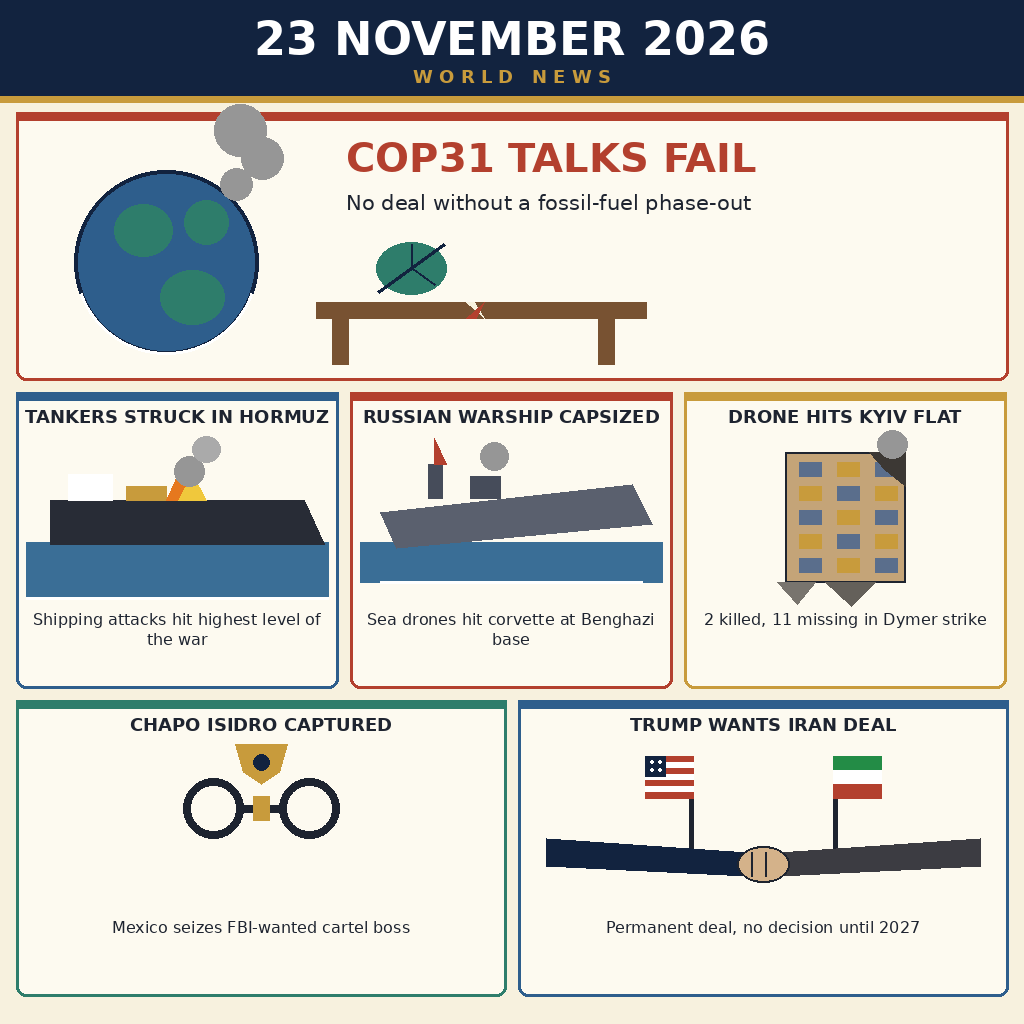
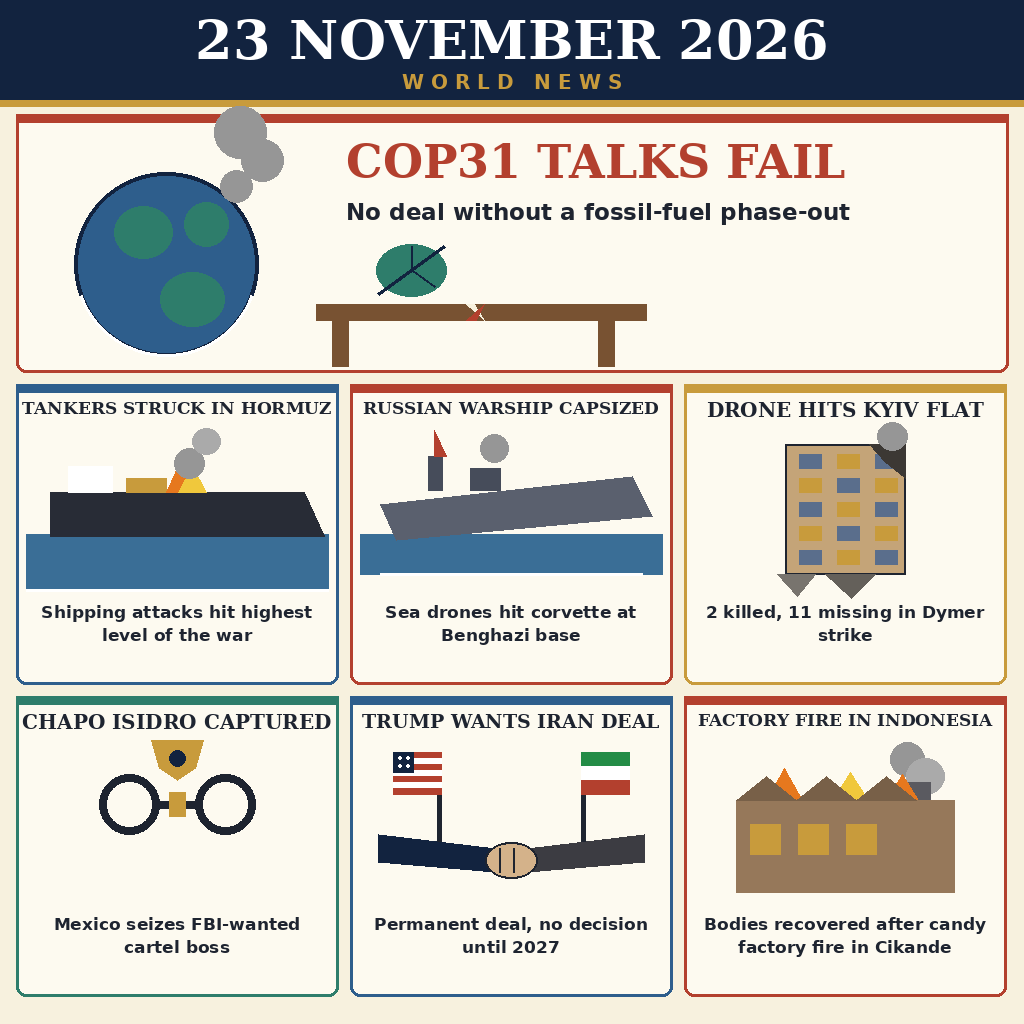
Berita 23 Nov round 2: 7-story newspaper front page (serif headlines, clear taglines)

diff --git a/draw_news.py b/draw_news.py
@@ -1,5 +1,7 @@
 """Draw the 23 November 2026 world-news front page (1024x1024).
 
+7 stories, newspaper (kertas koran) style: serif-bold headlines,
+clear one-line taglines, dark masthead with the date most prominent.
 Build tool only: renders entry.png locally with Pillow.
 The grader entrypoint is main.ts (Node stdlib), not this file.
 No network, no numpy. Verified stories only, per news-brief.txt.
@@ -22,10 +24,16 @@ CREAM = (253, 250, 240)
 
 SANS = "/usr/share/fonts/truetype/dejavu/DejaVuSans.ttf"
 SANSB = "/usr/share/fonts/truetype/dejavu/DejaVuSans-Bold.ttf"
+SERIFB = "/usr/share/fonts/truetype/dejavu/DejaVuSerif-Bold.ttf"
 
 
 def font(n, bold=False):
     return ImageFont.truetype(SANSB if bold else SANS, n)
+
+
+def head_font(n):
+    """Serif-bold headline font, newspaper style."""
+    return ImageFont.truetype(SERIFB, n)
 
 
 def wrap(d, text, fnt, max_w):
@@ -56,29 +64,35 @@ def panel(d, x, y, w, h, accent):
 
 
 def title_block(d, x, y, w, title, accent):
-    """Title in up to 2 lines, bold, centred."""
-    lines = wrap(d, title, font(18, True), w - 12)[:2]
+    """Headline: serif-bold, big, centred, one line where possible.
+    Shrink from 20pt until the whole headline fits on one line."""
+    size = 20
+    while size > 17 and d.textlength(title, font=head_font(size)) > w - 12:
+        size -= 1
+    fnt = head_font(size)
+    lines = wrap(d, title, fnt, w - 12)[:2]
     yy = y
     for ln in lines:
-        centered(d, x + w // 2, yy, ln, INK, font(18, True))
-        yy += 22
+        centered(d, x + w // 2, yy, ln, INK, fnt)
+        yy += size + 6
     return yy
 
 
-def caption_block(d, x, y, w, text, max_lines=3):
-    lines = wrap(d, text, font(16), w - 16)[:max_lines]
+def caption_block(d, x, y, w, text, max_lines=2):
+    """Tagline: clear, larger, high-contrast, bold, max 2 short lines."""
+    lines = wrap(d, text, font(17, True), w - 16)[:max_lines]
     yy = y
     for ln in lines:
-        centered(d, x + w // 2, yy, ln, INK, font(16))
-        yy += 20
+        centered(d, x + w // 2, yy, ln, INK, font(17, True))
+        yy += 23
     return yy
 
 
 def draw_banner(d):
-    d.rectangle([0, 0, W, 96], fill=NAVY)
-    d.rectangle([0, 96, W, 102], fill=GOLD)
-    centered(d, W // 2, 12, "23 NOVEMBER 2026", WHITE, font(46, True))
-    centered(d, W // 2, 66, "W O R L D   N E W S", GOLD, font(18, True))
+    d.rectangle([0, 0, W, 100], fill=NAVY)
+    d.rectangle([0, 100, W, 106], fill=GOLD)
+    centered(d, W // 2, 8, "23 NOVEMBER 2026", WHITE, head_font(54))
+    centered(d, W // 2, 70, "W O R L D   N E W S", GOLD, font(20, True))
 
 
 def draw_lead(d, x, y, w, h):
@@ -113,11 +127,11 @@ def draw_lead(d, x, y, w, h):
     d.line([tx + 62, y + 180, tx + 128, y + 132], fill=NAVY, width=3)
     d.line([tx + 96, y + 156, tx + 96, y + 132], fill=NAVY, width=2)
     d.line([tx + 96, y + 156, tx + 118, y + 172], fill=NAVY, width=2)
-    # Labels, right side
+    # Labels, right side: big serif headline, clear bold tagline
     lx = x + 330
-    d.text((lx, y + 22), "COP31 TALKS FAIL", fill=RED, font=font(40, True))
-    d.text((lx, y + 78), "No deal without a fossil-fuel phase-out",
-           fill=INK, font=font(21))
+    d.text((lx, y + 20), "COP31 TALKS FAIL", fill=RED, font=head_font(46))
+    d.text((lx, y + 84), "No deal without a fossil-fuel phase-out",
+           fill=INK, font=font(23, True))
 
 
 def art_tanker(d, x, y, w):
@@ -214,6 +228,35 @@ def art_flags(d, x, y, w):
     d.line([cx + 2, y + 152, cx + 2, y + 176], fill=INK, width=2)
 
 
+def art_factory(d, x, y, w):
+    # Compact factory art kept below the headline (title ends ~y+40)
+    # and above the tagline (starts y+218).
+    bx = x + 52
+    # Smoke puffs above the chimney, clear of the headline
+    d.ellipse([bx + w - 168, y + 46, bx + w - 134, y + 80],
+              fill=(150, 150, 150))
+    d.ellipse([bx + w - 152, y + 62, bx + w - 114, y + 98],
+              fill=(170, 170, 170))
+    # Chimney
+    d.rectangle([bx + w - 150, y + 86, bx + w - 128, y + 196],
+                fill=(90, 90, 96))
+    # Flames over the roof
+    d.polygon([(bx + 30, y + 104), (bx + 48, y + 72), (bx + 66, y + 104)],
+              fill=(230, 120, 30))
+    d.polygon([(bx + 96, y + 104), (bx + 114, y + 76), (bx + 132, y + 104)],
+              fill=(240, 200, 60))
+    d.polygon([(bx + 150, y + 104), (bx + 166, y + 78), (bx + 182, y + 104)],
+              fill=(230, 120, 30))
+    # Building first, then the sawtooth roof on top of it
+    d.rectangle([bx, y + 104, bx + w - 104, y + 196], fill=(150, 120, 90))
+    d.polygon([(bx, y + 104), (bx + 30, y + 80), (bx + 60, y + 104),
+               (bx + 90, y + 80), (bx + 120, y + 104),
+               (bx + 150, y + 80), (bx + 180, y + 104)], fill=(120, 96, 72))
+    d.rectangle([bx + 14, y + 128, bx + 44, y + 158], fill=GOLD)
+    d.rectangle([bx + 62, y + 128, bx + 92, y + 158], fill=GOLD)
+    d.rectangle([bx + 110, y + 128, bx + 140, y + 158], fill=GOLD)
+
+
 STORIES = [
     ("TANKERS STRUCK IN HORMUZ",
      "Shipping attacks hit highest level of the war", art_tanker, BLUE),
@@ -225,6 +268,9 @@ STORIES = [
      "Mexico seizes FBI-wanted cartel boss", art_handcuffs, TEAL),
     ("TRUMP WANTS IRAN DEAL",
      "Permanent deal, no decision until 2027", art_flags, BLUE),
+    ("FACTORY FIRE IN INDONESIA",
+     "Bodies recovered after candy factory fire in Cikande",
+     art_factory, RED),
 ]
 
 
@@ -239,15 +285,12 @@ def main():
     img = Image.new("RGB", (W, H), PAPER)
     d = ImageDraw.Draw(img)
     draw_banner(d)
-    draw_lead(d, 16, 112, 992, 268)
-    # Row 1: three panels
-    for i, x in enumerate([16, 350, 684]):
-        title, tag, art, accent = STORIES[i]
-        draw_small(d, x, 392, 322, 296, title, tag, art, accent)
-    # Row 2: two wider panels
-    for j, x in enumerate([16, 518]):
-        title, tag, art, accent = STORIES[3 + j]
-        draw_small(d, x, 700, 490, 296, title, tag, art, accent)
+    draw_lead(d, 16, 114, 992, 258)
+    # Grid: 3 columns x 2 rows, all six remaining stories
+    for row, y in enumerate([384, 696]):
+        for i, x in enumerate([16, 350, 684]):
+            title, tag, art, accent = STORIES[row * 3 + i]
+            draw_small(d, x, y, 322, 300, title, tag, art, accent)
     img.save("entry.png")
     print("wrote entry.png", img.size, img.mode)
 

diff --git a/README.md b/README.md
@@ -1,8 +1,8 @@
 # News Image — 23 November 2026
 
-A newspaper-front-page image summing up the world news of Monday 23 November 2026, drawn with Pillow (`draw_news.py`) and shipped as `entry.png` (1024×1024, under 1 MiB).
+A newspaper-front-page image summing up the world news of Monday 23 November 2026, drawn with Pillow (`draw_news.py`) and shipped as `entry.png` (1024×1024, under 1 MiB). Serif-bold headlines, clear one-line taglines.
 
-## The six stories
+## The seven stories
 
 - **COP31 TALKS FAIL** — No deal without a fossil-fuel phase-out
 - **TANKERS STRUCK IN HORMUZ** — Shipping attacks hit highest level of the war
@@ -10,6 +10,7 @@ A newspaper-front-page image summing up the world news of Monday 23 November 202
 - **DRONE HITS KYIV FLAT** — 2 killed, 11 missing in Dymer strike
 - **CHAPO ISIDRO CAPTURED** — Mexico seizes FBI-wanted cartel boss
 - **TRUMP WANTS IRAN DEAL** — Permanent deal, no decision until 2027
+- **FACTORY FIRE IN INDONESIA** — Bodies recovered after candy factory fire in Cikande
 
 ## How to run
 
